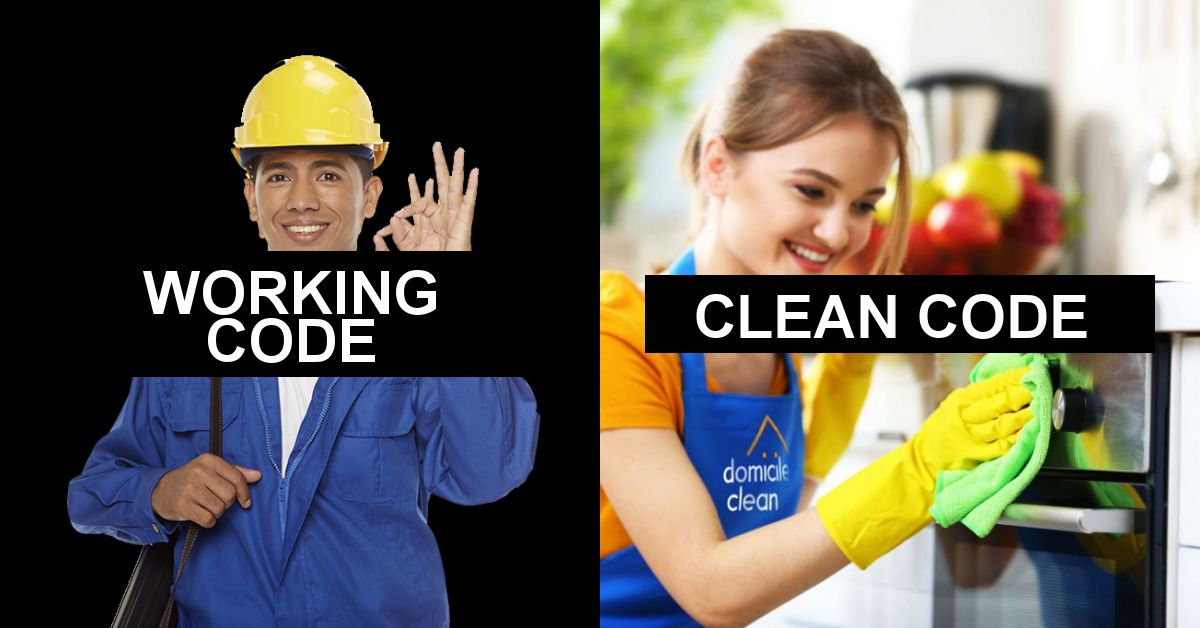
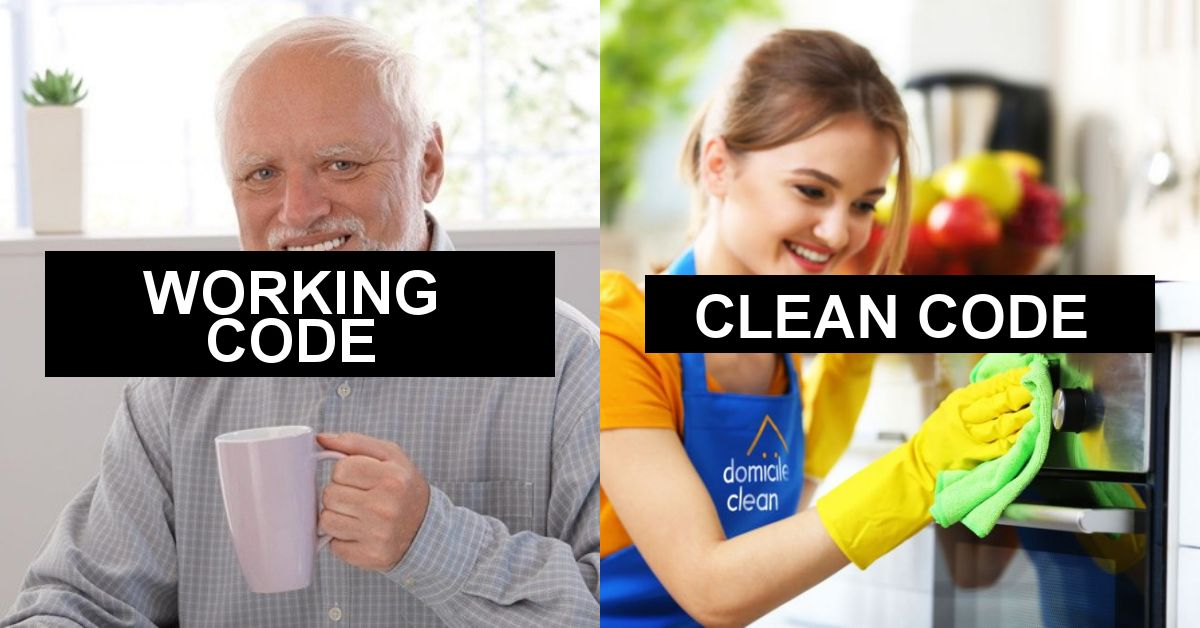
fix(image): change the working-code image

diff --git a/apps/devchoices-next/public/assets/data/questions.ts b/apps/devchoices-next/public/assets/data/questions.ts
@@ -16,7 +16,7 @@ export const questions: QuestionInterface[] = [
     slug: 'working-code-or-clean-code',
     choiceLeft: {
       title: 'Working Code',
-      img_path: '/assets/img/working-code.png',
+      img_path: '/assets/img/working-code.jpg',
     },
     choiceRight: {
       title: 'Clean Code',
